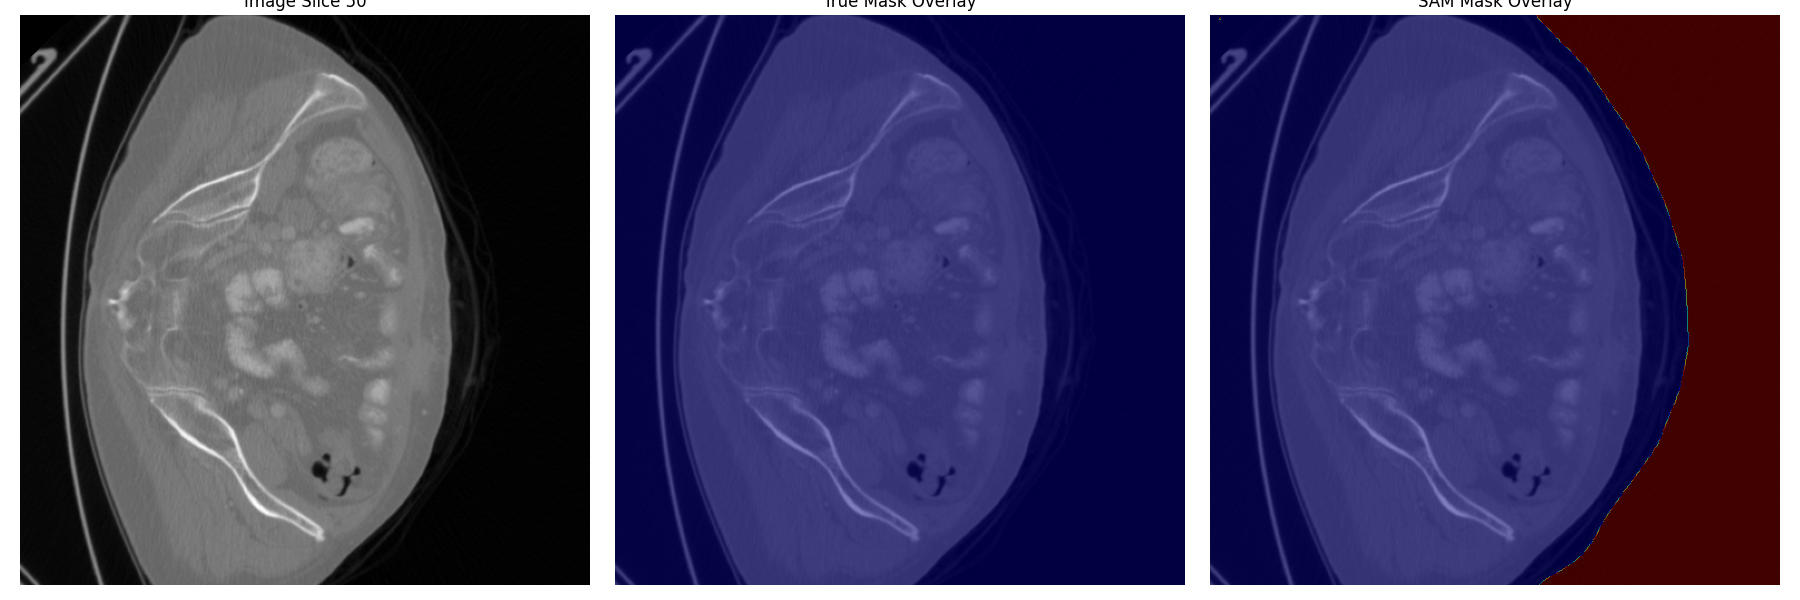
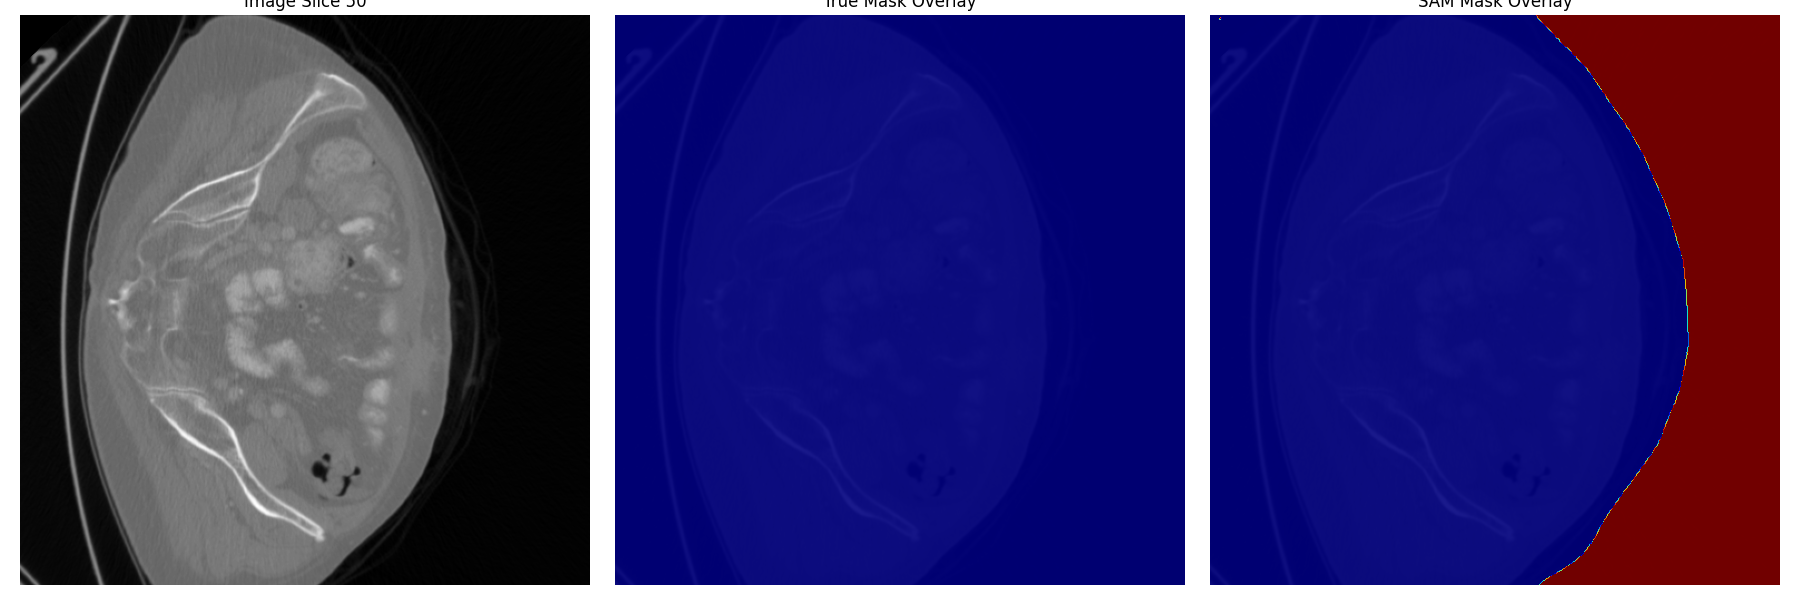
mask

diff --git a/segment-anything/notebooks/visualization.py b/segment-anything/notebooks/visualization.py
@@ -71,13 +71,13 @@ def visualize_slice_with_sam_mask(image_data, true_mask_data, sam_mask_slice, sl
 
     # Display the image slice with true mask overlay
     ax[1].imshow(image_slice, cmap='gray')
-    ax[1].imshow(true_mask_slice, cmap='jet', alpha=0.5)  # Adjust alpha for mask transparency
+    ax[1].imshow(true_mask_slice, cmap='jet', alpha=0.9)  # Adjust alpha for mask transparency
     ax[1].set_title(f'True Mask Overlay')
     ax[1].axis('off')
 
     # Display the image slice with SAM mask overlay
     ax[2].imshow(image_slice, cmap='gray')
-    ax[2].imshow(sam_mask_slice, cmap='jet', alpha=0.5)
+    ax[2].imshow(sam_mask_slice, cmap='jet', alpha=0.9)
     ax[2].set_title(f'SAM Mask Overlay')
     ax[2].axis('off')
 
